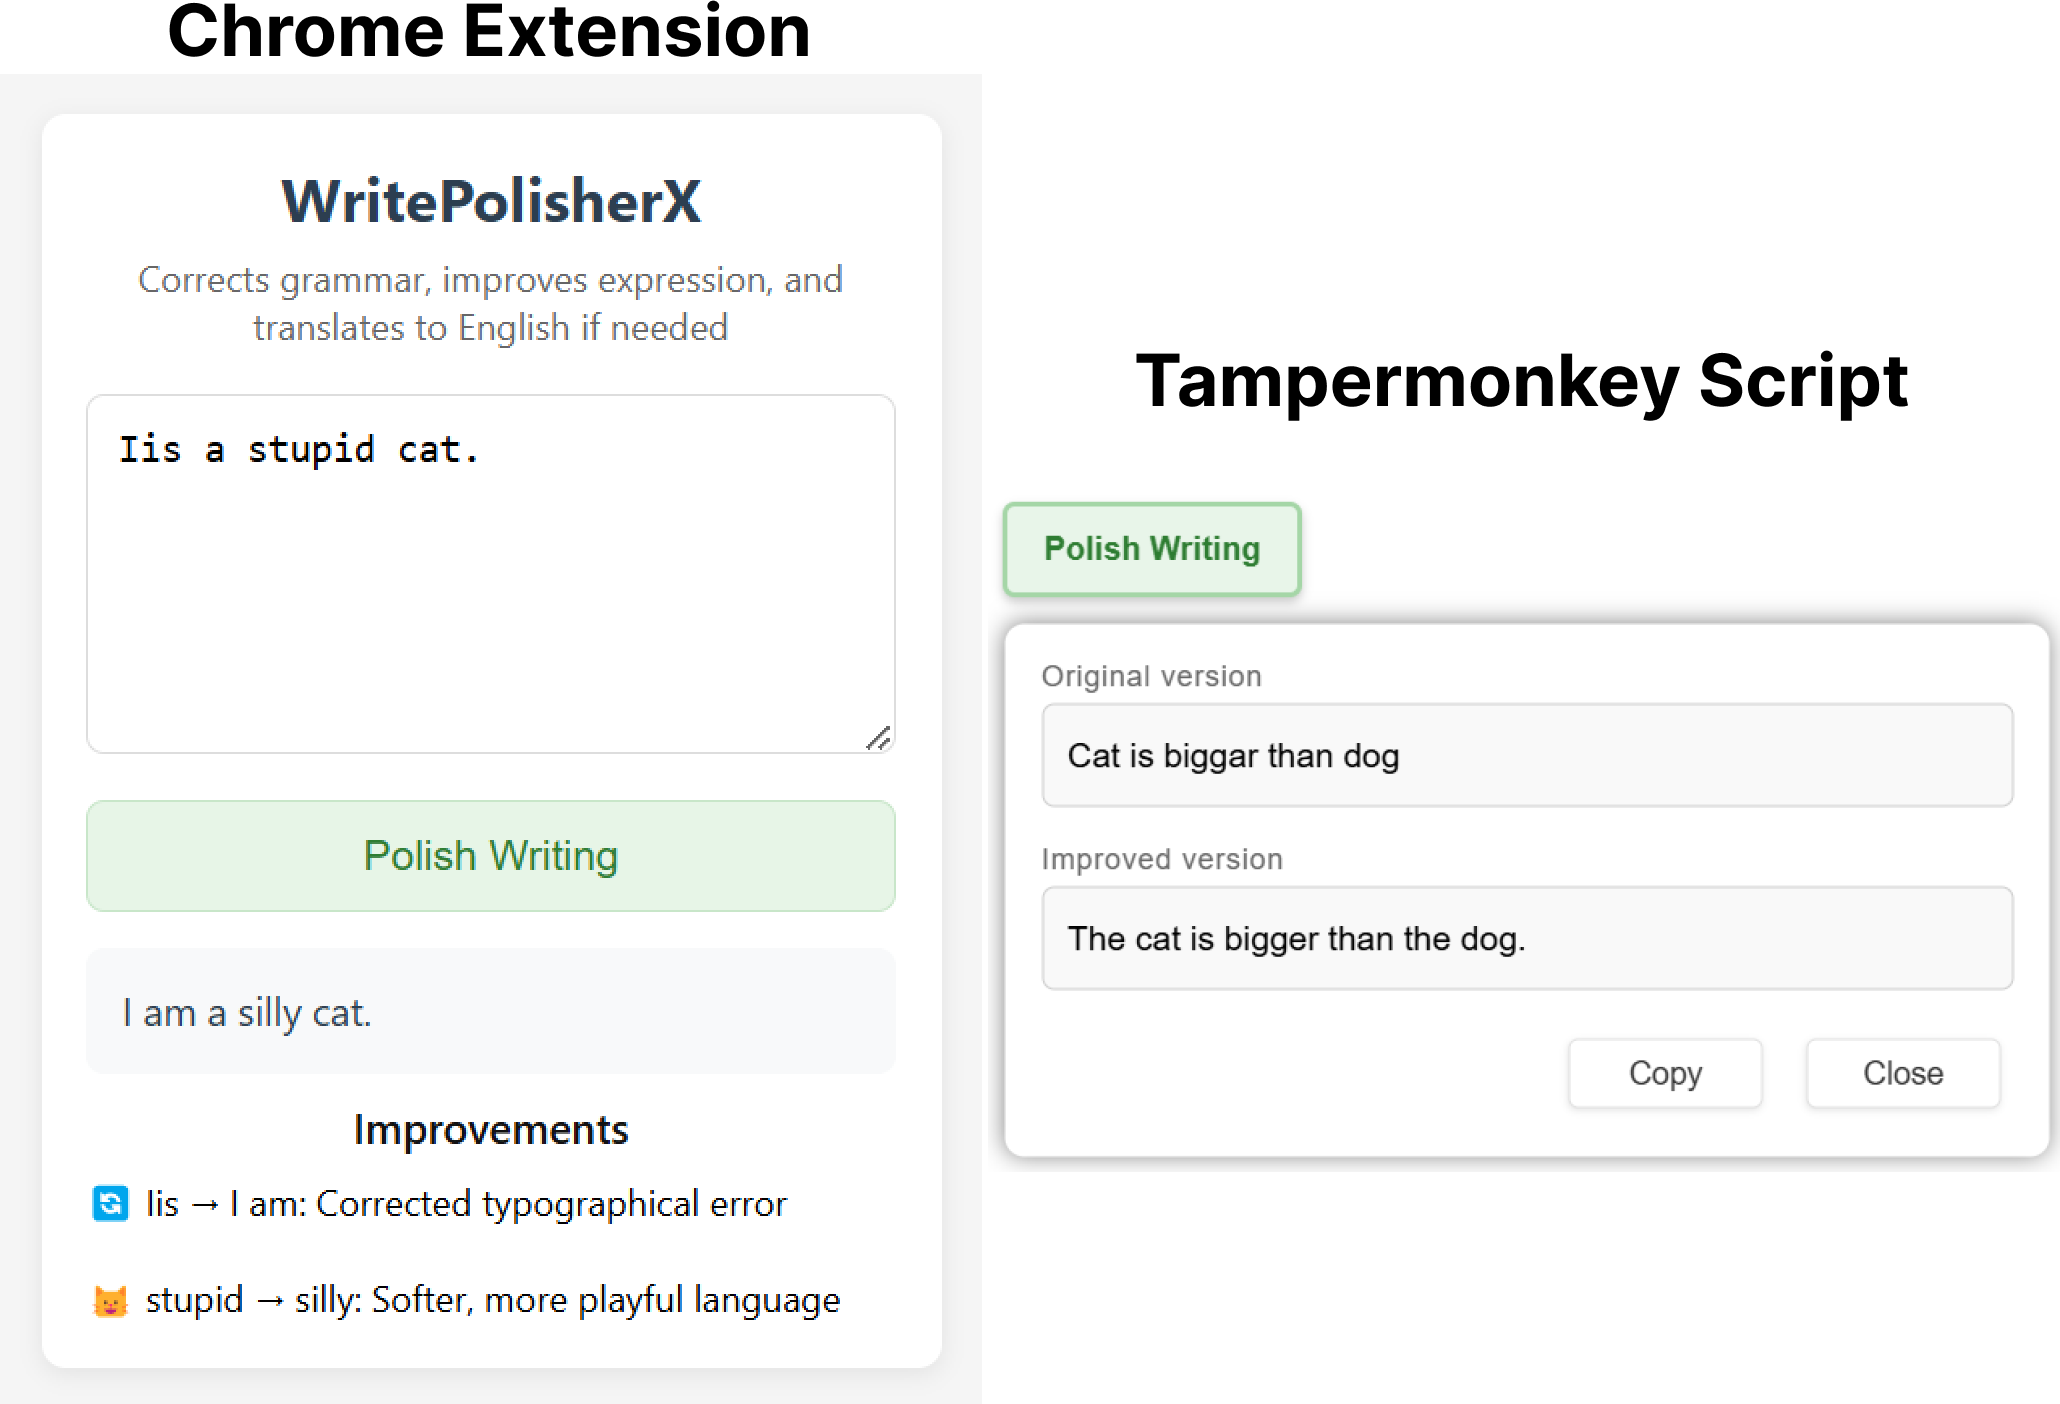
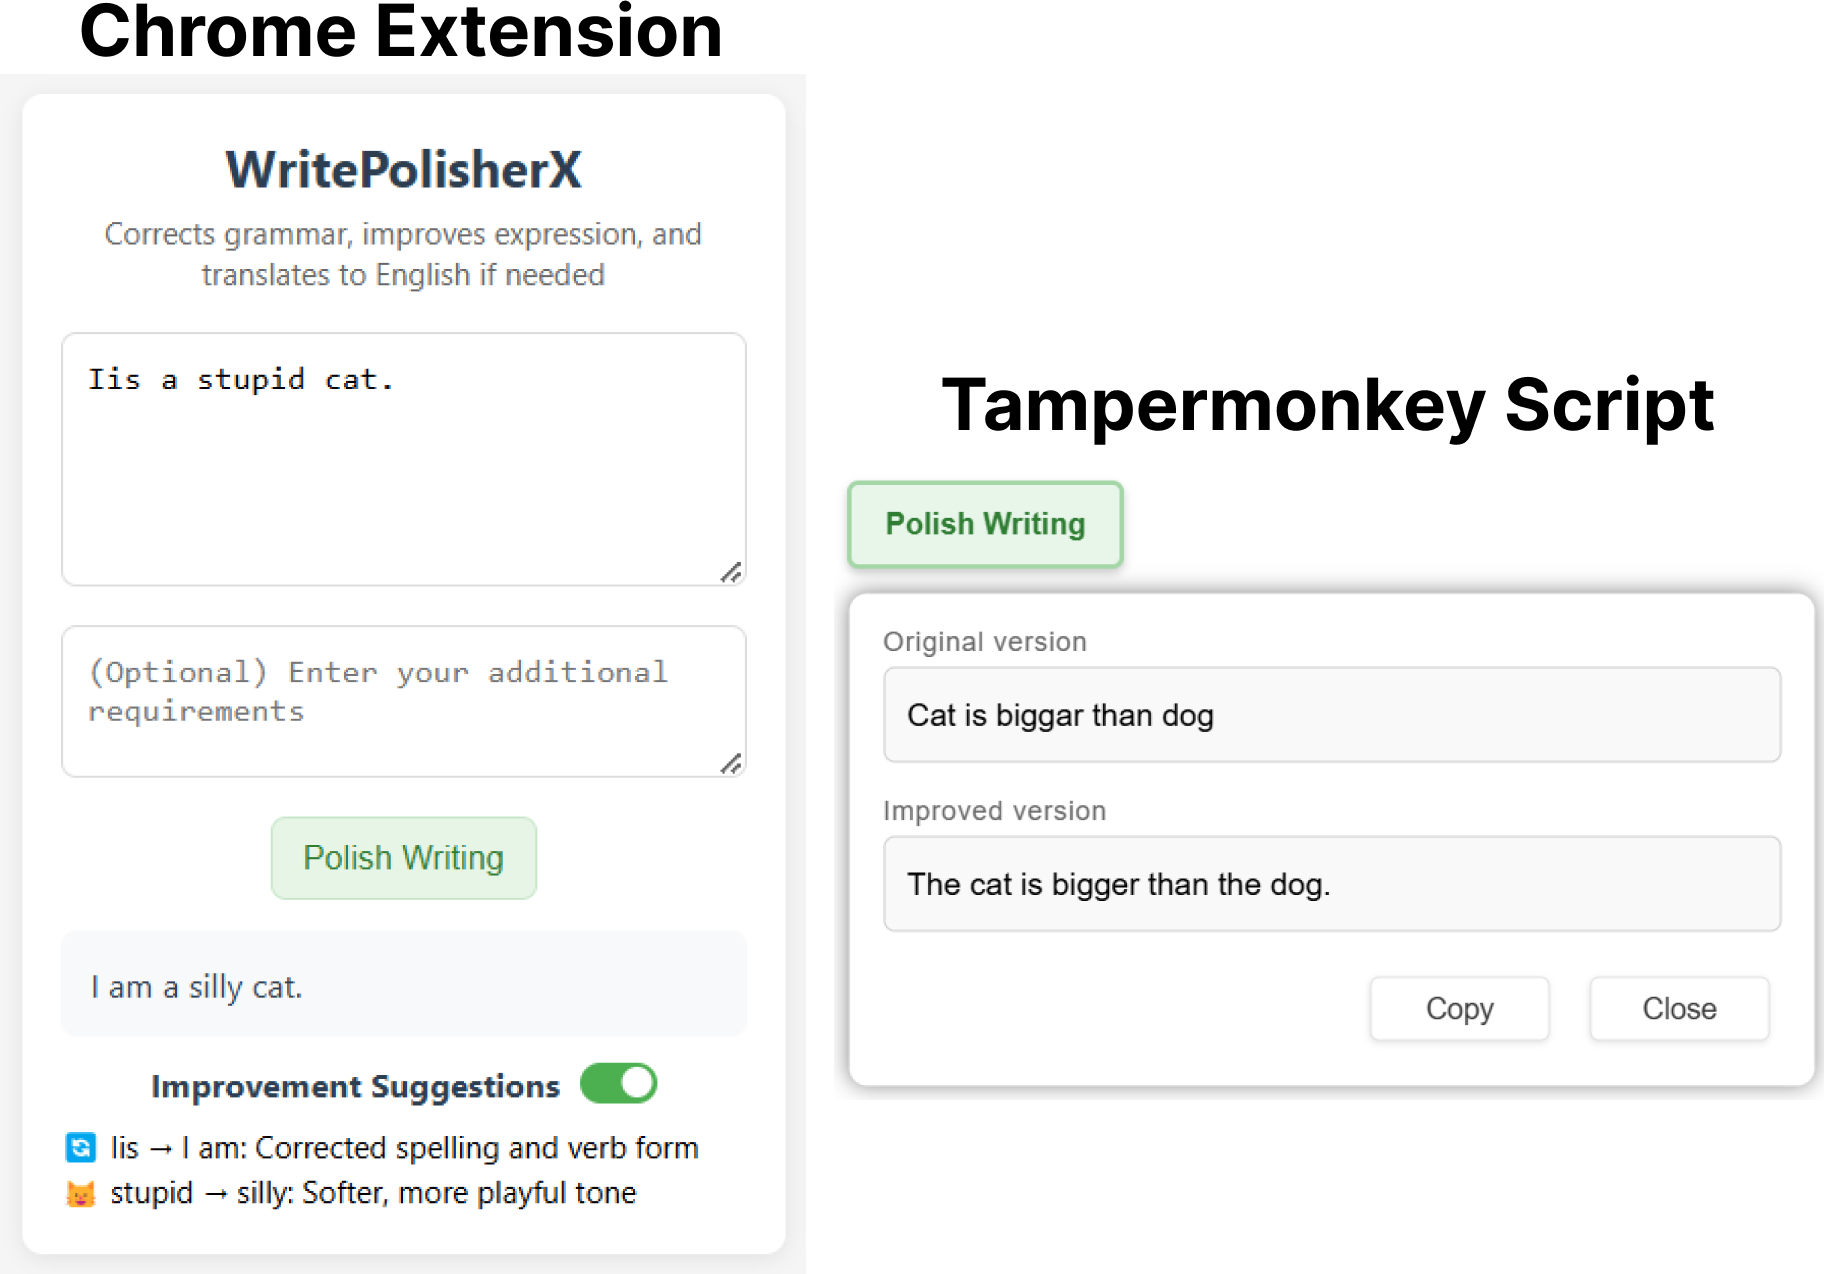
Support optional requirements and suggestions

diff --git a/chrome_extension/popup.js b/chrome_extension/popup.js
@@ -1,9 +1,11 @@
 const elements = {
     input: document.getElementById("inputText"),
+    inputRequirements: document.getElementById("inputRequirements"),
     output: document.getElementById("output"),
     button: document.getElementById("checkGrammar"),
     loading: document.getElementById("loading"),
-    suggestions: document.getElementById("suggestions")
+    suggestions: document.getElementById("suggestions"),
+    toggleSuggestions: document.getElementById("toggleSuggestions")
 };
 
 const API_URL = "https://us-central1-vivid-poet-450321-v7.cloudfunctions.net/polish-text";
@@ -20,37 +22,53 @@ const setLoading = (isLoading) => {
 
 const polishText = async () => {
     try {
+        const originalText = elements.input.value.trim();
+        const additionalRequirements = elements.inputRequirements.value.trim();
+
+        // Check if the original text is empty
+        if (!originalText) {
+            elements.output.innerText = "Please enter some text to improve.";
+            return;
+        }
+
         setLoading(true);
-        const originalText = elements.input.value;
 
         // Get the polished text
         const polishResponse = await fetch(API_URL, {
             method: "POST",
             headers: { "Content-Type": "application/json" },
-            body: JSON.stringify({ text: originalText })
+            body: JSON.stringify({
+                text: originalText,
+                requirements: additionalRequirements
+            })
         });
 
         if (!polishResponse.ok) throw new Error(`Polish API Error: ${polishResponse.status}`);
         const polishedText = await polishResponse.text();
         elements.output.innerText = polishedText;
 
-        // Get the suggestions
-        const suggestionsResponse = await fetch(SUGGESTIONS_API_URL, {
-            method: "POST",
-            headers: { "Content-Type": "application/json" },
-            body: JSON.stringify({
-                originalText: originalText,
-                polishedText: polishedText
-            })
-        });
+        // Check if suggestions should be shown
+        if (elements.toggleSuggestions.checked) {
+            // Get the suggestions
+            const suggestionsResponse = await fetch(SUGGESTIONS_API_URL, {
+                method: "POST",
+                headers: { "Content-Type": "application/json" },
+                body: JSON.stringify({
+                    originalText: originalText,
+                    polishedText: polishedText
+                })
+            });
 
-        if (!suggestionsResponse.ok) {
-            const errorText = await suggestionsResponse.text();
-            throw new Error(`Suggestions API Error: ${suggestionsResponse.status} - ${errorText}`);
+            if (!suggestionsResponse.ok) {
+                const errorText = await suggestionsResponse.text();
+                throw new Error(`Suggestions API Error: ${suggestionsResponse.status} - ${errorText}`);
+            }
+
+            const suggestions = await suggestionsResponse.text();
+            elements.suggestions.innerText = suggestions.replace(/\n{2,}/g, '\n');
+        } else {
+            elements.suggestions.innerText = ''; // Clear suggestions if toggle is off
         }
-
-        const suggestions = await suggestionsResponse.text();
-        elements.suggestions.innerText = suggestions.replace(/\n{2,}/g, '\n');
 
     } catch (error) {
         elements.output.innerText = `Error: ${error.message}`;

diff --git a/chrome_extension/styles.css b/chrome_extension/styles.css
@@ -27,9 +27,9 @@ h1 {
   margin: 0 0 15px 0;
 }
 
-#inputText {
+#inputText,
+#inputRequirements {
   width: 100%;
-  height: 120px;
   padding: 10px;
   border: 1px solid #ddd;
   border-radius: 6px;
@@ -39,17 +39,27 @@ h1 {
   box-sizing: border-box;
 }
 
+#inputText {
+  height: 100px;
+}
+
+#inputRequirements {
+  height: 60px;
+}
+
 #checkGrammar {
-  width: 100%;
-  padding: 10px;
+  width: auto;
+  padding: 8px 12px;
   background-color: #e7f5e7;
   color: #2e7d32;
   border: 1px solid #c8e6c9;
   border-radius: 6px;
   cursor: pointer;
-  font-size: 14px;
+  font-size: 13px;
   font-weight: 500;
   transition: all 0.2s;
+  display: block;
+  margin: 0 auto;
 }
 
 #checkGrammar:hover {
@@ -102,4 +112,62 @@ h1 {
   color: #111;
   margin: 8px 0;
   font-weight: 500;
+}
+
+.toggle-container {
+  display: flex;
+  align-items: center;
+  justify-content: center;
+  margin-top: 10px;
+}
+
+.toggle-checkbox {
+  display: none;
+}
+
+.toggle-improvements {
+  display: flex;
+  align-items: center;
+  justify-content: center;
+  margin-top: 10px;
+  margin-bottom: 8px;
+  gap: 8px;
+}
+
+.toggle-label {
+  position: relative;
+  display: inline-block;
+  width: 30px;
+  height: 16px;
+  background-color: #ccc;
+  border-radius: 16px;
+  cursor: pointer;
+  transition: background-color 0.2s;
+}
+
+.toggle-label::after {
+  content: "";
+  position: absolute;
+  width: 12px;
+  height: 12px;
+  left: 2px;
+  bottom: 2px;
+  background-color: white;
+  border-radius: 50%;
+  transition: transform 0.2s;
+}
+
+.toggle-checkbox:checked + .toggle-label {
+  background-color: #4caf50;
+}
+
+.toggle-checkbox:checked + .toggle-label::after {
+  transform: translateX(14px);
+}
+
+.toggle-text {
+  font-size: 13px;
+  color: #2c3e50;
+  font-weight: bold;
+  line-height: 16px;
 }

diff --git a/cloud_functions/polish_text/index.js b/cloud_functions/polish_text/index.js
@@ -26,7 +26,7 @@ async function polishText(req, res) {
             });
         }
 
-        const { text } = req.body;  // Extract text from request body
+        const { text, requirements } = req.body;  // Extract text and requirements from request body
 
         // 2. Initialize OpenAI client
         const openai = new OpenAI({
@@ -34,6 +34,9 @@ async function polishText(req, res) {
         });
 
         // 3. Build dynamic request body
+        const userMessageContent = `Please fix the grammar and expression errors in the following text:\n\n${text}` +
+            (requirements && requirements.trim() !== '' ? `\n\n[Note: The following text does not need to be improved or displayed to the user] The user also provided the following requirements, please follow them as well. In case of any conflicts, prioritize the user's requirements: ${requirements}` : '');
+
         const response = await openai.chat.completions.create({
             model: "gpt-4o",
             messages: [
@@ -51,7 +54,7 @@ async function polishText(req, res) {
                 },
                 {
                     role: "user",
-                    content: `Please fix the grammar and expression errors in the following text:\n\n${text}`
+                    content: userMessageContent
                 }
             ],
             response_format: { type: "text" },

diff --git a/chrome_extension/popup.html b/chrome_extension/popup.html
@@ -15,8 +15,15 @@
       </p>
       <textarea
         id="inputText"
-        placeholder="Input your text here"
+        placeholder="Enter the text you would like to improve"
         rows="5"
+        cols="40"
+      ></textarea>
+
+      <textarea
+        id="inputRequirements"
+        placeholder="(Optional) Enter your additional requirements"
+        rows="3"
         cols="40"
       ></textarea>
 
@@ -24,10 +31,18 @@
       <div id="loading" class="loading">Processing...</div>
 
       <div class="results-container">
-          <div id="output"></div>
-          <h3 class="section-label">Improvements</h3>
-          <div id="suggestions"></div>
+        <div id="output"></div>
+        <div class="toggle-improvements">
+          <span class="toggle-text">Improvement Suggestions</span>
+          <input
+            type="checkbox"
+            id="toggleSuggestions"
+            class="toggle-checkbox"
+            checked
+          />
+          <label for="toggleSuggestions" class="toggle-label"></label>
         </div>
+        <div id="suggestions"></div>
       </div>
     </div>
     <script src="popup.js"></script>

diff --git a/ReadMe.md b/ReadMe.md
@@ -3,7 +3,7 @@
 A writing enhancement toolkit that includes both a Chrome extension and a Tampermonkey script. It polishes your writing by correcting grammar, improving expression, and translating non-English text to English when needed.
 
 <div align="center">
-    <img src="static/combination.png" style="max-width: 100%; width: 680px;" alt="WritePolisherX Screenshot">
+    <img src="static/combination.png" style="max-width: 100%; width: 650px;" alt="WritePolisherX Screenshot">
 </div>
 
 ## Components
